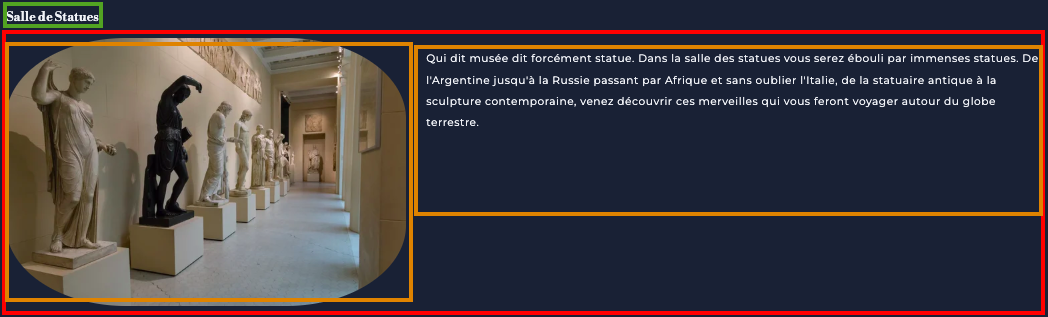
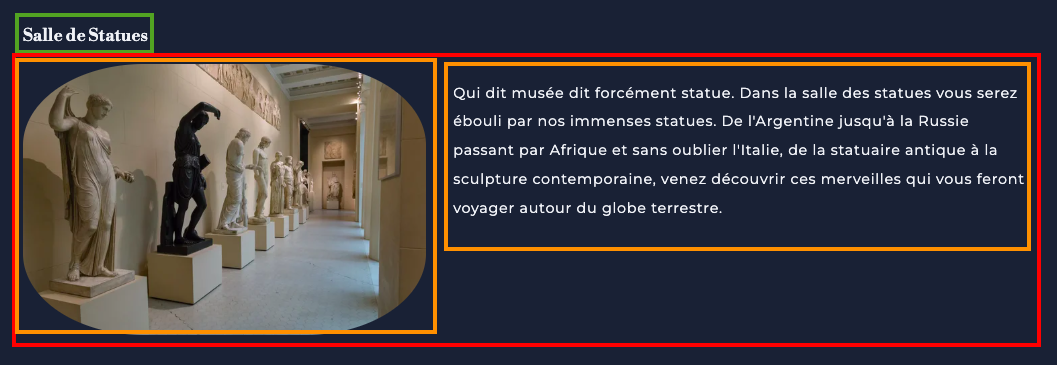
Mini cleanup

diff --git a/html/arts.html b/html/arts.html
@@ -46,7 +46,7 @@ maximo.mayorga@umontreal.ca
             <img class="image" id="statue" src="../images/salle_statues.jpg" alt="Salle de Statues">
             <p class="arts">
                 Qui dit musée dit forcément statue. Dans la salle des statues
-                vous serez ébouli par immenses statues. De l'Argentine jusqu'à la Russie
+                vous serez ébouli par nos immenses statues. De l'Argentine jusqu'à la Russie
                 passant par Afrique et sans oublier l'Italie, de la statuaire antique à la
                 sculpture contemporaine, venez découvrir ces merveilles qui vous feront voyager
                 autour du globe terrestre.
@@ -71,29 +71,31 @@ maximo.mayorga@umontreal.ca
             <img class="image" id="conference" src="../images/salle_conférence.png" alt="Salle de conférence">
             <div>
                 <p class="arts">
-                    Au classy mumuseum, nous possèdons une salle de conférence qui peut jouer plusieurs rôles.
+                    Au Classy Mumuseum, nous possèdons une salle de conférence qui peut jouer plusieurs rôles.
                     Elle peut être utilisées comme:
                 </p>
-                <ol type="1">
-                    <li>Ateliers artistiques
-                        <ol type="I">
-                            <li>Dessin et illustration</li>
-                            <li>Peinture et création artistique</li>
-                            <li>Sculpture et modelage</li>
-                        </ol>
-                    </li>
-                    <li>Activités de groupe</li>
-                        <ol type="I">
-                            <li>Visites guidées</li>
-                            <li>Quiz sur l'art</li>
-                        </ol>
-                    <li>Conférences sur l'art
-                        <ol type="I">
-                            <li>Conférences sur l'histoire de l'art</li>
-                            <li>Rencontre avec des artistes </li>
-                        </ol>
-                    </li>
-                </ol>
+                <div class="liste">
+                    <ol type="1">
+                        <li>Ateliers artistiques
+                            <ol type="I">
+                                <li>Dessin et illustration</li>
+                                <li>Peinture et création artistique</li>
+                                <li>Sculpture et modelage</li>
+                            </ol>
+                        </li>
+                        <li>Activités de groupe</li>
+                            <ol type="I">
+                                <li>Visites guidées</li>
+                                <li>Quiz sur l'art</li>
+                            </ol>
+                        <li>Conférences sur l'art
+                            <ol type="I">
+                                <li>Conférences sur l'histoire de l'art</li>
+                                <li>Rencontre avec des artistes </li>
+                            </ol>
+                        </li>
+                    </ol>
+                </div>
             </div>
         </div>
 

diff --git a/html/apropos.html b/html/apropos.html
@@ -52,8 +52,8 @@ maximo.mayorga@umontreal.ca
         <p>
             Le principe de répétition repose sur la cohérence des éléments visuels du site web. On parle de plusieus
             choses telles que les images, la police et les couleurs utilisées. Dans notre site web, nous nous sommes
-            assurés que la répétition soit bien présente. Nous utilisons la même couleur de fond pour le body <b>#1A2233</b>, 
-            la même couleur pour le header et le footer <b>#2F3F5C</b> ainsi que la même couleur pour le texte <b>#F0F2F6</b>. 
+            assurés que la répétition soit bien présente. Nous utilisons la même couleur de fond <b>#1A2233</b> pour le body, 
+            la même couleur <b>#2F3F5C</b> pour le header et le footer ainsi que la même couleur <b>#F0F2F6</b> pour le texte . 
             Nous avons aussi gardé la même police tout le long, cet à dire Monserrat pour le body et Bodoni pour le header. En 2ème
             choix, c'est la police Arial qui sera utilisée. Cette répétition évitera de mélanger l'utilisateur lorsqu'il navigue
             et cela maximisera l'expérience qu'il aura ! Voici des extraits du code CSS pour montrer la répétition des couleurs et de la police :
@@ -86,7 +86,7 @@ maximo.mayorga@umontreal.ca
 
         <h2>Principe de Contraste</h2>
         <div class="organisation-contraste">
-            <p>
+            <p class="texte-contraste">
                 Le contraste est un principe fondamentale dans le design web. Il est important que le contraste soit
                 bon pour permettre aux utilisateurs de bien voir le contenu du site web. Le contraste est aussi
                 important pour les personnes qui ont des problèmes de vision. Il est donc important de bien choisir 

diff --git a/css/tp1.css b/css/tp1.css
@@ -172,7 +172,7 @@ ol {
 
 #presentation {
     display: inline-block;
-    margin-left: 17%;
+    /* margin-left: 17%; */
     padding: 10px;
     background-image: radial-gradient(circle, #d9d9d9, #2a3347);
 }
@@ -189,24 +189,24 @@ ol {
 }
 
 #contraste {
-    width: 600px;
-    height: 300px;
-    border: 4px solid orange;
-    display: flex;
-    position: relative;
     margin-right: 10px;
 }
 
-#contraste2 {
-    width: 600px;
+#contraste, #contraste2 {
+    width: 450px;
     height: 300px;
     border: 4px solid orange;
-    display: flex;
-    position: relative;
+    float: right;
+    shape-outside: content-box;
+}
+
+.texte-contraste {
+    text-wrap: wrap;
 }
 
 #preuve-proximite {
-    height: 400px;
+    height: 300px;
+    width: 80%;
     display: block;
     margin: 0 auto;
     border:4px solid azure;
@@ -251,6 +251,10 @@ h3.arts,h2.arts {
     width: auto;
     height: 32%;
     max-width: 40%;
+}
+
+.liste {
+    margin-left: 25%;
 }
 /* Fin du style pour la page arts*/
 

diff --git a/html/index.html b/html/index.html
@@ -90,7 +90,7 @@ maximo.mayorga@umontreal.ca
         </div>
 
     </main>
-
+    
     <footer>
         <p class="noms"> Maximo Mayorga</p>
         <p class="noms"> Audrey-Anne Burgess</p>
